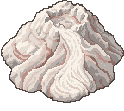
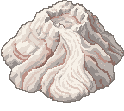
Caravan: the salt dome outlined in the hex borders' grey
The dark grey-brown outline still made it stand out (owner); China's
ridges are outlined in their border's colour too.

Claude-Session: https://claude.ai/code/session_011fDfjhcYmesHTtsVZVig42

diff --git a/packages/games/silk-road-run/src/client/board/ground.ts b/packages/games/silk-road-run/src/client/board/ground.ts
@@ -178,9 +178,9 @@ const LOOKS: Record<string, Look> = {
   // they were as dark as the hex borders and hid them; the dome, 144
   // wide, taken to 124 by 111 and 8 colours, a little taller than drawn
   // so it covers its seven spaces, then its colours taken 60% of the way
-  // to the crust's, its pinks to a dusty clay, with a dark grey-brown
-  // outline, as in the art's own whites and pinks it stood out; owner,
-  // 2026-10-26). Its obstacle is the Gobi's sandstone ruin until the
+  // to the crust's, its pinks to a dusty clay, and its outline the hex
+  // borders' grey, as in the art's own whites and pinks, and with a dark
+  // outline, it stood out; owner, 2026-10-26). Its obstacle is the Gobi's sandstone ruin until the
   // windcatcher's art is in (salt-flats.md).
   salt: {
     ground: saltCrustImage,

diff --git a/docs/plans/roguelike-tactics/salt-flats.md b/docs/plans/roguelike-tactics/salt-flats.md
@@ -248,9 +248,10 @@ and 2):
   (whites, three greys, the pinks and clay red). In the art's own colours
   it stood out from the ground (owner, 2026-10-26), so each was taken 60%
   of the way to the crust's (`#e9e1d7` and its warm greys), the pinks
-  becoming a dusty clay, with a dark grey-brown outline (`#4f4540`) so it
-  still reads as blocked; taken all the way, its lit side was lost in the
-  salt. Real salt domes are earthier than the art: their salt darkened by
+  becoming a dusty clay; taken all the way, its lit side was lost in the
+  salt. Its outline is the hex borders' grey (`#7d7570`), as China's
+  ridges are outlined in their border's colour: the dark grey-brown
+  (`#4f4540`) tried first still made it stand out (owner, 2026-10-26). Real salt domes are earthier than the art: their salt darkened by
   clays and dust brought up with it, a gypsum rim, and red, grey and dark
   rock mixed in, so the muted dome is also the truer one. Drawn once from the centre space (`drawDome` in ground.ts),
   its foot on the bottom space's bottom edge, clipped as seven mountains
